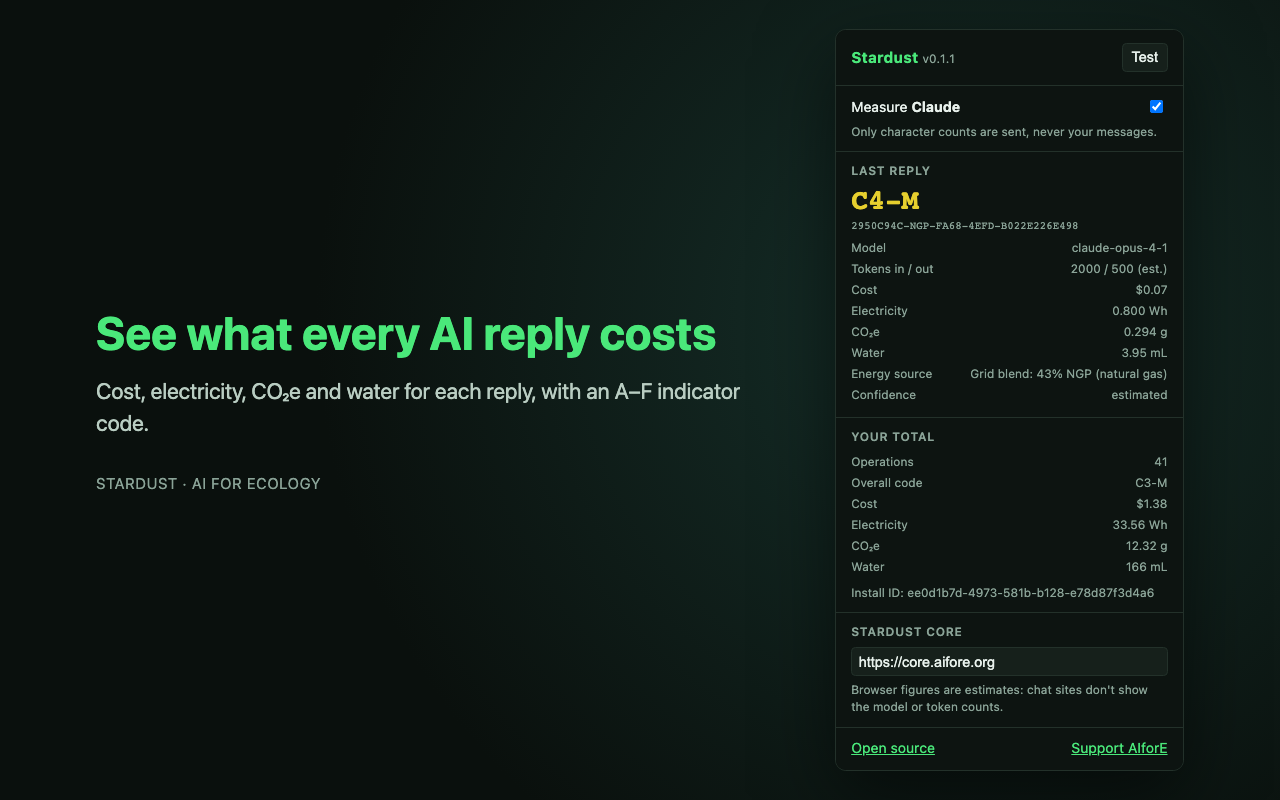
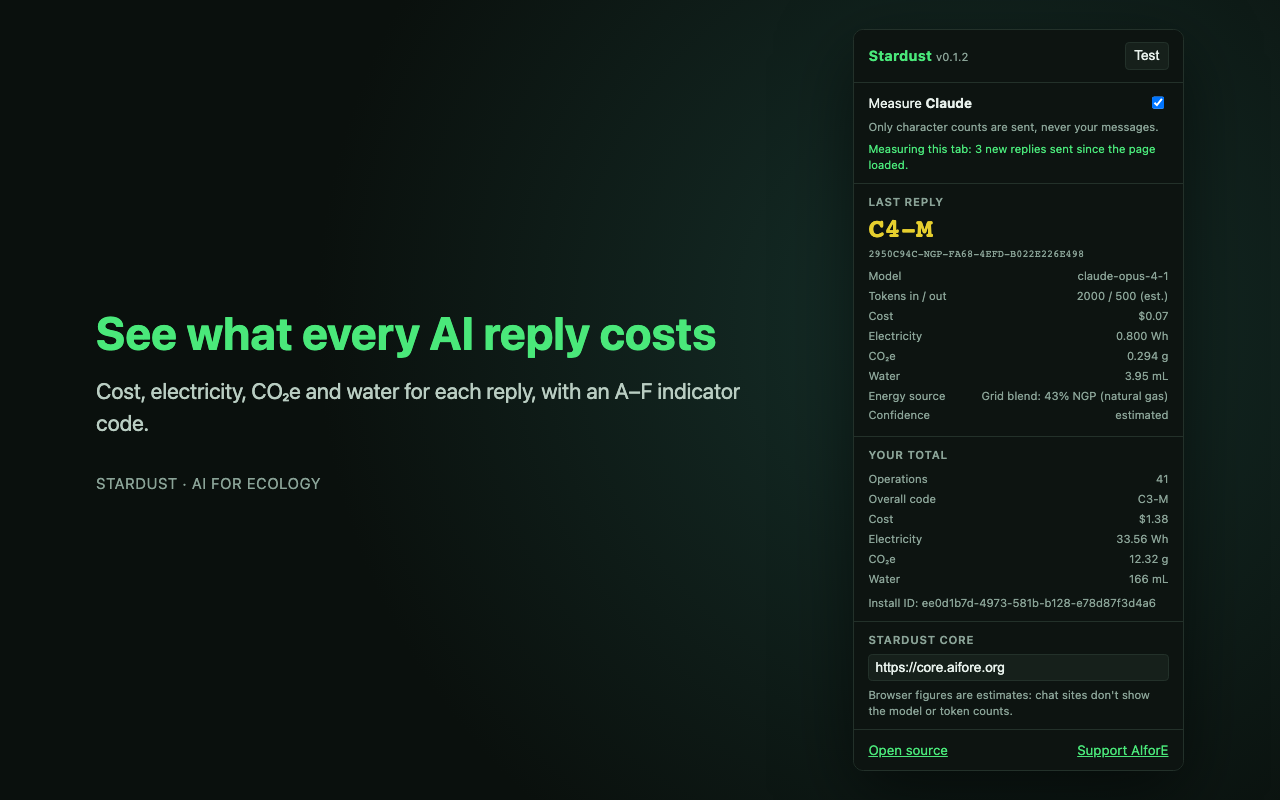
Extension 0.1.2: popup shows whether this tab is being measured
The popup asks the tab's content script for its status and says one of:
measuring (with replies sent since the page loaded), Measure was off when the
page loaded, not running on this tab (reload it), or no replies found (which
points at a site markup change). A page silently measuring nothing was hard to
tell apart from a working one.

Changed region(s): [[0.6562, 0.0625, 0.9375, 0.9688], [0.8125, 0.9062, 0.9062, 0.9688], [0.6562, 0.0625, 0.75, 0.0938]]

diff --git a/subscriber-client/browser-extension/src/popup.ts b/subscriber-client/browser-extension/src/popup.ts
@@ -1,7 +1,7 @@
 import { energySourceLabel, fmt, fmtUsd } from "./format.ts";
 import { coreFetch, currentUserId, DEFAULT_API_BASE, getSettings, setApiBase, setSiteEnabled } from "./settings.ts";
 import { siteForHost } from "./sites.ts";
-import type { EnrichedEvent, Summary, TabState } from "./types.ts";
+import type { EnrichedEvent, PageStatus, Summary, TabState } from "./types.ts";
 
 const $ = <T extends HTMLElement>(id: string) => document.getElementById(id) as T;
 
@@ -45,6 +45,30 @@ async function renderSummary(apiBase: string): Promise<void> {
   }
 }
 
+/** Whether this tab is actually being measured, asked of the content script itself. */
+async function renderTabStatus(tabId: number): Promise<void> {
+  const el = $("tab-status");
+  let status: PageStatus | undefined;
+  try {
+    status = (await chrome.tabs.sendMessage(tabId, { type: "stardust:status" })) as PageStatus | undefined;
+  } catch {
+    // No content script answered: the page was open before Stardust was installed or reloaded.
+  }
+  if (!status) {
+    el.dataset.state = "warn";
+    el.textContent = "Not running on this tab yet. Reload the page to start measuring.";
+  } else if (!status.measuring) {
+    el.dataset.state = "warn";
+    el.textContent = "Measure was off when this page loaded. Reload the page to start measuring.";
+  } else {
+    el.dataset.state = status.repliesOnPage ? "ok" : "";
+    const sent = `${status.repliesSent} new ${status.repliesSent === 1 ? "reply" : "replies"} sent`;
+    el.textContent = status.repliesOnPage
+      ? `Measuring this tab: ${sent} since the page loaded.`
+      : `Measuring this tab, but no replies found on the page${status.repliesSent ? "" : " yet"}.`;
+  }
+}
+
 async function main(): Promise<void> {
   $("version").textContent = `v${chrome.runtime.getManifest().version}`;
   const settings = await getSettings();
@@ -60,6 +84,7 @@ async function main(): Promise<void> {
       await setSiteEnabled(site.id, toggle.checked);
       if (tab?.id != null) await chrome.tabs.reload(tab.id);
     });
+    if (toggle.checked && tab?.id != null) void renderTabStatus(tab.id);
   } else {
     $("site").hidden = true;
   }

diff --git a/subscriber-client/browser-extension/src/content.ts b/subscriber-client/browser-extension/src/content.ts
@@ -8,7 +8,7 @@ import { estimateTokens } from "./estimate.ts";
 import { siteForHost, type SiteAdapter } from "./sites.ts";
 import { ReplyTracker, type Turn } from "./tracker.ts";
 import { turnChars, turnText } from "./turns.ts";
-import type { UsageMessage } from "./types.ts";
+import type { PageStatus, StatusRequest, UsageMessage } from "./types.ts";
 
 const POLL_MS = 1000;
 /** A reply counts as finished once its length is unchanged for this many polls (and it isn't streaming). */
@@ -96,18 +96,28 @@ function tick(): void {
     };
   });
 
+  status.repliesOnPage = turns.filter((t) => t.kind === "reply").length;
   for (const { reply, user } of tracker.observe(turns)) {
     const print = `${conversationKey()}|${fingerprint(turnText(site, reply.el))}`;
     if (reportedPrints.has(print)) continue; // the same reply, re-rendered
     reportedPrints.add(print);
+    status.repliesSent += 1;
     void report(site, reply.el, reply.chars, user?.el);
   }
 }
 
+// What the popup shows about this tab, so a page the script isn't running on (or a site whose
+// markup changed) is visible instead of silently measuring nothing.
+const status: PageStatus = { siteId: site?.id ?? "", measuring: false, repliesOnPage: 0, repliesSent: 0 };
+
 async function start(): Promise<void> {
   if (!site) return;
+  chrome.runtime.onMessage.addListener((msg: StatusRequest, _sender, sendResponse) => {
+    if (msg?.type === "stardust:status") sendResponse(status);
+  });
   const { enabledSites } = await chrome.storage.local.get("enabledSites");
   if (!(enabledSites as string[] | undefined)?.includes(site.id)) return;
+  status.measuring = true;
   setInterval(tick, POLL_MS);
 }
 

diff --git a/subscriber-client/browser-extension/static/popup.html b/subscriber-client/browser-extension/static/popup.html
@@ -24,6 +24,7 @@
     button { background: var(--panel); color: var(--text); border: 1px solid var(--line); border-radius: 4px; padding: 5px 8px; cursor: pointer; }
     button:hover { border-color: var(--accent); }
     .note { color: var(--muted); font-size: 11px; margin: 6px 0 0; }
+    #tab-status[data-state="ok"] { color: var(--accent); } #tab-status[data-state="warn"] { color: #f0a030; }
     footer { padding: 10px 14px; display: flex; justify-content: space-between; align-items: center; }
     a { color: var(--accent); }
   </style>
@@ -34,6 +35,7 @@
   <section id="site">
     <label class="switch"><span>Measure <strong id="site-name"></strong></span><input type="checkbox" id="site-toggle" /></label>
     <p class="note">Only character counts are sent, never your messages.</p>
+    <p class="note" id="tab-status"></p>
   </section>
 
   <section>

diff --git a/subscriber-client/browser-extension/src/types.ts b/subscriber-client/browser-extension/src/types.ts
@@ -64,6 +64,22 @@ export interface TestEventMessage {
 
 export type Message = UsageMessage | TestEventMessage;
 
+/** Popup → content script: is this tab being measured? */
+export interface StatusRequest {
+  type: "stardust:status";
+}
+
+/** Content script → popup. Counts only. */
+export interface PageStatus {
+  siteId: string;
+  /** Measure was on for this site when the page loaded (measurement starts at page load). */
+  measuring: boolean;
+  /** Replies on the page at the last check, history included. */
+  repliesOnPage: number;
+  /** New replies sent to Stardust since the page loaded. */
+  repliesSent: number;
+}
+
 export interface TabState {
   last?: EnrichedEvent;
   error?: string;
